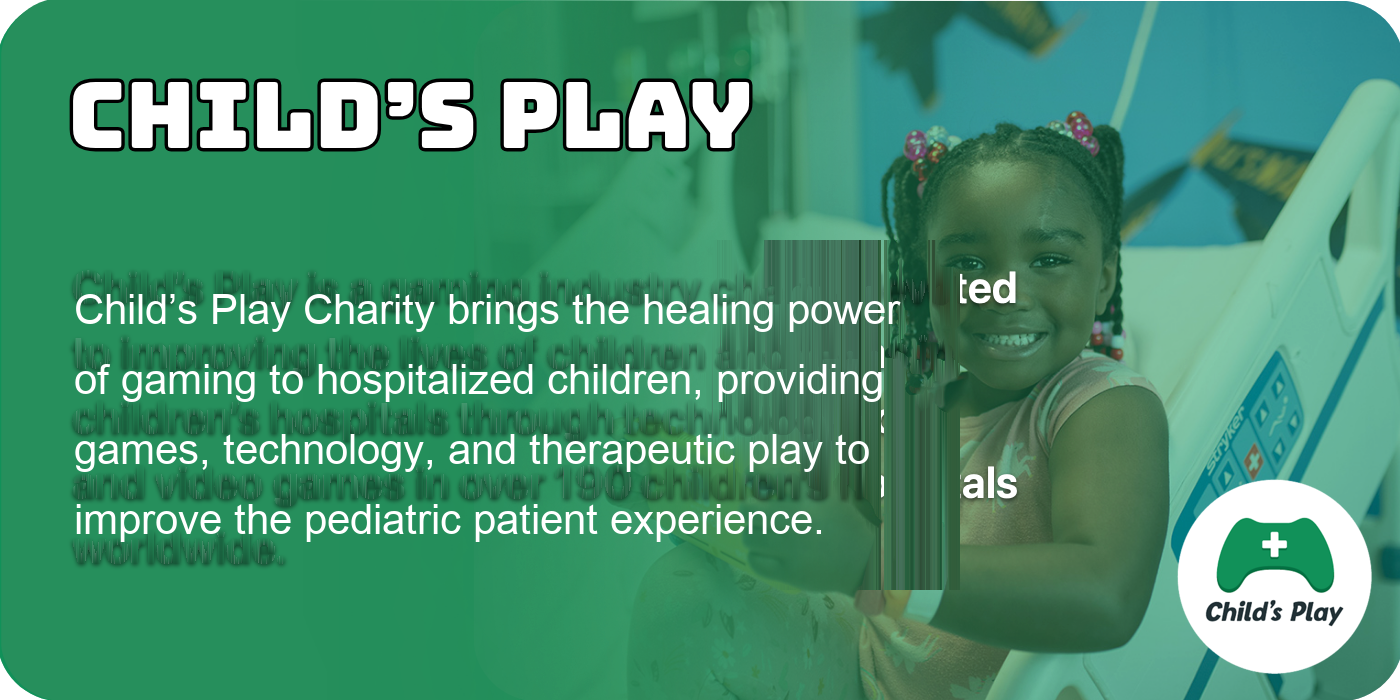
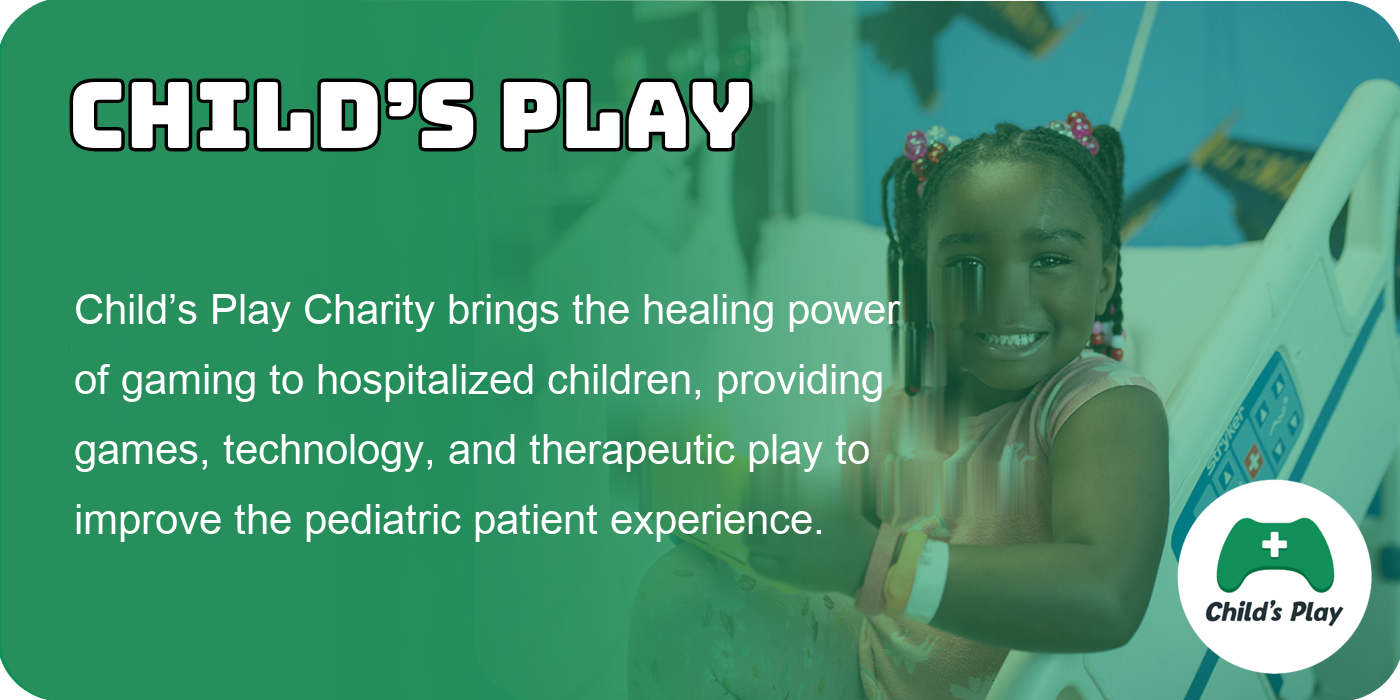
Eliminate text shadow ghosts from Child's Play tile and render clean Arial text

Changed region(s): [[0.0307, 0.33, 0.7371, 0.84], [0.0307, 0.75, 0.215, 0.81]]

diff --git a/sw.js b/sw.js
@@ -1,5 +1,5 @@
 // Riley PWA Service Worker
-const CACHE_NAME = 'riley-pwa-v294';
+const CACHE_NAME = 'riley-pwa-v295';
 const PRECACHE_ASSETS = [
   './',
   './index.html',
